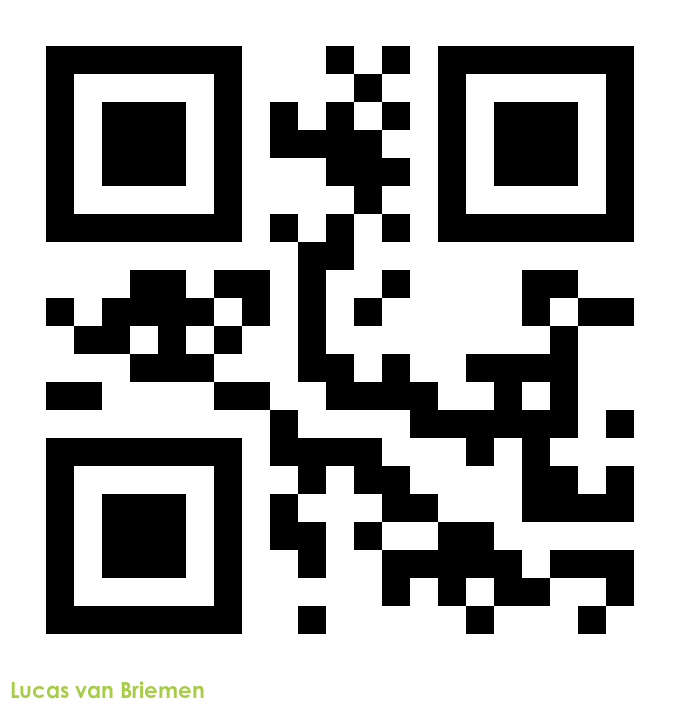
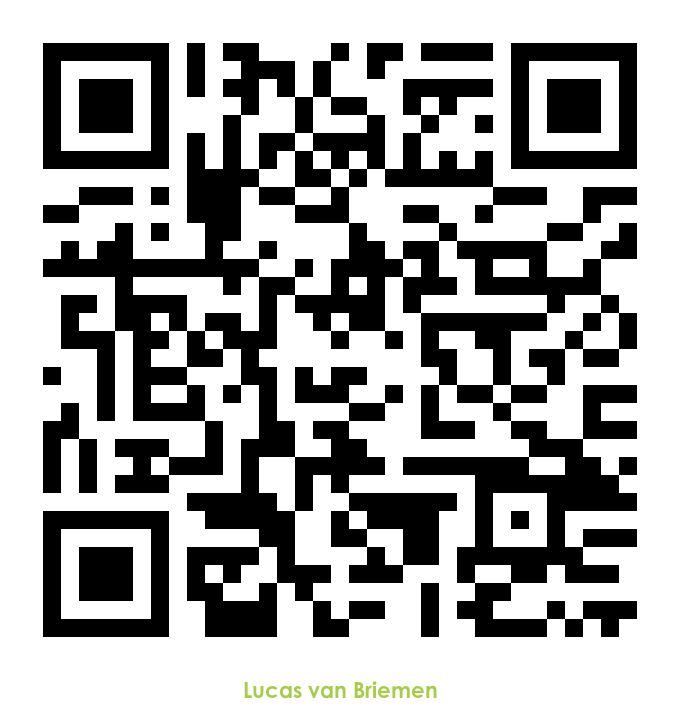
commit

diff --git a/js/qrRead.js b/js/qrRead.js
@@ -4,6 +4,8 @@ const video = document.getElementById("preview");
 const canvas = document.createElement("canvas");
 const ctx = canvas.getContext("2d");
 
+let hasSeen = false;
+
 video.style.backgroundColor = "black";
 canvas.style.backgroundColor = "black";
 
@@ -38,16 +40,21 @@ function captureFrame() {
     const imageData = ctx.getImageData(0, 0, canvas.width, canvas.height);
     const code = jsQR(imageData.data, imageData.width, imageData.height);
 
-    if(code){
+    if(code && !hasSeen){
+
+        hasSeen = true;
 
         let formData = new FormData;
         formData.append('code', code.data)
 
-        let xhr = XMLHttpRequest();
-        xhr.open('POST', 'inc/qrScan', true);
+        let xhr = new XMLHttpRequest();
+        xhr.open('POST', 'inc/qrScan.php', true);
 
         xhr.onload = function(){
-            let response = this.response
+            let response = this.response;
+            response = JSON.parse(response);
+
+            console.log(response)
 
             if(response[0] == 0){
                 Swal.fire({
@@ -55,22 +62,22 @@ function captureFrame() {
                     text: response[1],
                     icon: 'error',
                     confirmButtonText: 'probeer opnieuw'
-                })
+                }).then(() => {
+                    hasSeen = false;
+                })  
             }else{
                 Swal.fire({
                     title: 'Succes!',
                     text: response[1],
                     icon: 'success',
                     confirmButtonText: 'Ga naar de home pagina!'
+                }).then(() => {
+                    hasSeen = false;
                 })
             }
         }
 
         xhr.send(formData)
-    }
-
-    if (code) {
-        alert("QR Code found: " + code.data);
     }
 
     // Repeat the process

diff --git a/inc/qrScan.php b/inc/qrScan.php
@@ -1,0 +1,28 @@
+<?php
+include '_database.php';
+
+
+echo json_encode(scanQR());
+
+function scanQR(){
+    global $conn;
+
+    if(!isset($_POST['code'])){
+        return [0, "Geen QR code gevonden"];
+    }
+
+    $code = $_POST['code'];
+    $code = cleanData($code);
+
+    $sql = "SELECT * FROM users WHERE userID = '$code'";
+    $result = mysqli_query($conn, $sql);
+
+    if(!$result){
+        return [0, "Geen gebruiker gevonden"];
+    }
+
+    $row = mysqli_fetch_assoc($result);
+    
+
+    return [1, $_POST['code']];
+}

diff --git a/view/admin.view.php b/view/admin.view.php
@@ -5,7 +5,10 @@
     <meta charset="UTF-8">
     <meta name="viewport" content="width=device-width, initial-scale=1.0">
     <title>QR Code Scanner</title>
-    <link rel="stylesheet" href="admin.css">
+
+    <link rel="stylesheet" href="css/admin.css">
+
+    <script src="https://cdn.jsdelivr.net/npm/sweetalert2@11"></script>
     <script src="js/qrRead.js" type="module" defer></script>
 </head>
 

diff --git a/inc/makeQR.php b/inc/makeQR.php
@@ -40,7 +40,7 @@ class MakeQR
         if ($this->label != null) {
             $label = Label::create($this->label)
                 ->setTextColor(new Color(167, 205, 72))
-                ->setAlignment(new LabelAlignmentLeft)
+                ->setAlignment(new LabelAlignmentCenter)
                 ->setFont(new Font(
                     'CenturyGothicPro-Bold.otf',
                 ), 20);
